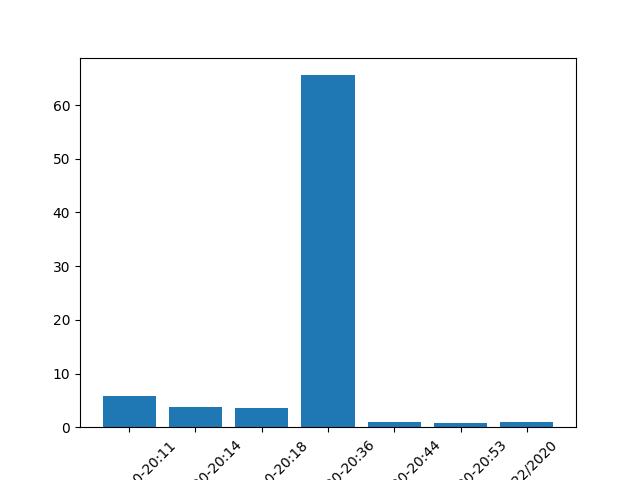
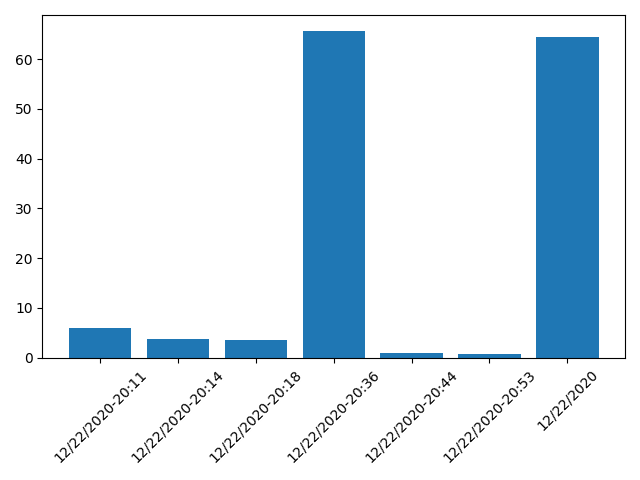
1.1.5 - Benchmarking and Screensize Fix
- Added timing/benchmarking calculations
- Fix for screen sizes set by selenium, hopefully to standardize width

diff --git a/Report.html b/Report.html
@@ -208,7 +208,7 @@
 
             
     <div class="clearfix snippet-container">
-                <div class="clearfix" style="margin-top25px;"><h2>LandmarkTest, https://www.landmarkhealth.org/</h2><br><p>12/22/2020 - 21:05</p></div>
+                <div class="clearfix" style="margin-top25px;"><h2>LandmarkTest, https://www.landmarkhealth.org/</h2><br><p>12/22/2020 - 21:35</p></div>
 
                     <div><img src="results/LandmarkTest/diffplot.png"></div>
 
@@ -216,15 +216,15 @@
 
                         <h3>Current Site</h3>
 
-                        <a href="results/LandmarkTest/LandmarkTest-12222020-2105.jpg"><img class="imagediff" src="results/LandmarkTest/LandmarkTest-12222020-2105.jpg"></a>
+                        <a href="results/LandmarkTest/LandmarkTest-12222020-2135.jpg"><img class="imagediff" src="results/LandmarkTest/LandmarkTest-12222020-2135.jpg"></a>
 
                     </div>    
 
                     <div class="image-container">
 
-                        <h3>Comparative Differences (1.04%)</h3>
+                        <h3>Comparative Differences (35.23%)</h3>
 
-                        <a href="results/LandmarkTest/differences-12222020-2105.jpg"><img class="imagediff" src="results/LandmarkTest/differences-12222020-2105.jpg"></a>
+                        <a href="results/LandmarkTest/differences-12222020-2135.jpg"><img class="imagediff" src="results/LandmarkTest/differences-12222020-2135.jpg"></a>
 
                     </div>
 
@@ -232,7 +232,7 @@
 
                         <h3>Previous Capture</h3>
 
-                        <a href="results/LandmarkTest/LandmarkTest-12222020-2053.jpg"><img class="imagediff" src="results/LandmarkTest/LandmarkTest-12222020-2053.jpg"></a>
+                        <a href="results/LandmarkTest/LandmarkTest-12222020-2132.jpg"><img class="imagediff" src="results/LandmarkTest/LandmarkTest-12222020-2132.jpg"></a>
 
                     </div>
 
@@ -241,7 +241,7 @@
 
                 
     <div class="clearfix snippet-container">
-                <div class="clearfix" style="margin-top25px;"><h2>Roman, https://www.romandesign.co/</h2><br><p>12/22/2020 - 21:05</p></div>
+                <div class="clearfix" style="margin-top25px;"><h2>Roman, https://www.romandesign.co/</h2><br><p>12/22/2020 - 21:35</p></div>
 
                     <div><img src="results/Roman/diffplot.png"></div>
 
@@ -249,7 +249,7 @@
 
                         <h3>Current Site</h3>
 
-                        <a href="results/Roman/Roman-12222020-2105.jpg"><img class="imagediff" src="results/Roman/Roman-12222020-2105.jpg"></a>
+                        <a href="results/Roman/Roman-12222020-2135.jpg"><img class="imagediff" src="results/Roman/Roman-12222020-2135.jpg"></a>
 
                     </div>    
 
@@ -257,7 +257,7 @@
 
                         <h3>Comparative Differences (0.0%)</h3>
 
-                        <a href="results/Roman/differences-12222020-2105.jpg"><img class="imagediff" src="results/Roman/differences-12222020-2105.jpg"></a>
+                        <a href="results/Roman/differences-12222020-2135.jpg"><img class="imagediff" src="results/Roman/differences-12222020-2135.jpg"></a>
 
                     </div>
 
@@ -265,7 +265,7 @@
 
                         <h3>Previous Capture</h3>
 
-                        <a href="results/Roman/Roman-12222020-2053.jpg"><img class="imagediff" src="results/Roman/Roman-12222020-2053.jpg"></a>
+                        <a href="results/Roman/Roman-12222020-2132.jpg"><img class="imagediff" src="results/Roman/Roman-12222020-2132.jpg"></a>
 
                     </div>
 

diff --git a/results/LandmarkTest-snippets.html b/results/LandmarkTest-snippets.html
@@ -1,5 +1,5 @@
     <div class="clearfix snippet-container">
-                <div class="clearfix" style="margin-top25px;"><h2>LandmarkTest, https://www.landmarkhealth.org/</h2><br><p>12/22/2020 - 21:05</p></div>
+                <div class="clearfix" style="margin-top25px;"><h2>LandmarkTest, https://www.landmarkhealth.org/</h2><br><p>12/22/2020 - 21:35</p></div>
 
                     <div><img src="results/LandmarkTest/diffplot.png"></div>
 
@@ -7,15 +7,15 @@
 
                         <h3>Current Site</h3>
 
-                        <a href="results/LandmarkTest/LandmarkTest-12222020-2105.jpg"><img class="imagediff" src="results/LandmarkTest/LandmarkTest-12222020-2105.jpg"></a>
+                        <a href="results/LandmarkTest/LandmarkTest-12222020-2135.jpg"><img class="imagediff" src="results/LandmarkTest/LandmarkTest-12222020-2135.jpg"></a>
 
                     </div>    
 
                     <div class="image-container">
 
-                        <h3>Comparative Differences (1.04%)</h3>
+                        <h3>Comparative Differences (35.23%)</h3>
 
-                        <a href="results/LandmarkTest/differences-12222020-2105.jpg"><img class="imagediff" src="results/LandmarkTest/differences-12222020-2105.jpg"></a>
+                        <a href="results/LandmarkTest/differences-12222020-2135.jpg"><img class="imagediff" src="results/LandmarkTest/differences-12222020-2135.jpg"></a>
 
                     </div>
 
@@ -23,7 +23,7 @@
 
                         <h3>Previous Capture</h3>
 
-                        <a href="results/LandmarkTest/LandmarkTest-12222020-2053.jpg"><img class="imagediff" src="results/LandmarkTest/LandmarkTest-12222020-2053.jpg"></a>
+                        <a href="results/LandmarkTest/LandmarkTest-12222020-2132.jpg"><img class="imagediff" src="results/LandmarkTest/LandmarkTest-12222020-2132.jpg"></a>
 
                     </div>
 

diff --git a/results/Roman-snippets.html b/results/Roman-snippets.html
@@ -1,5 +1,5 @@
     <div class="clearfix snippet-container">
-                <div class="clearfix" style="margin-top25px;"><h2>Roman, https://www.romandesign.co/</h2><br><p>12/22/2020 - 21:05</p></div>
+                <div class="clearfix" style="margin-top25px;"><h2>Roman, https://www.romandesign.co/</h2><br><p>12/22/2020 - 21:35</p></div>
 
                     <div><img src="results/Roman/diffplot.png"></div>
 
@@ -7,7 +7,7 @@
 
                         <h3>Current Site</h3>
 
-                        <a href="results/Roman/Roman-12222020-2105.jpg"><img class="imagediff" src="results/Roman/Roman-12222020-2105.jpg"></a>
+                        <a href="results/Roman/Roman-12222020-2135.jpg"><img class="imagediff" src="results/Roman/Roman-12222020-2135.jpg"></a>
 
                     </div>    
 
@@ -15,7 +15,7 @@
 
                         <h3>Comparative Differences (0.0%)</h3>
 
-                        <a href="results/Roman/differences-12222020-2105.jpg"><img class="imagediff" src="results/Roman/differences-12222020-2105.jpg"></a>
+                        <a href="results/Roman/differences-12222020-2135.jpg"><img class="imagediff" src="results/Roman/differences-12222020-2135.jpg"></a>
 
                     </div>
 
@@ -23,7 +23,7 @@
 
                         <h3>Previous Capture</h3>
 
-                        <a href="results/Roman/Roman-12222020-2053.jpg"><img class="imagediff" src="results/Roman/Roman-12222020-2053.jpg"></a>
+                        <a href="results/Roman/Roman-12222020-2132.jpg"><img class="imagediff" src="results/Roman/Roman-12222020-2132.jpg"></a>
 
                     </div>
 

diff --git a/crawwwly.py b/crawwwly.py
@@ -5,6 +5,7 @@ import os
 from os import listdir
 import fnmatch
 import sys
+import datetime
 from datetime import datetime
 import PIL
 from PIL import Image
@@ -17,6 +18,11 @@ import requests
 from requests.exceptions import ConnectionError
 from pathlib import Path
 import matplotlib.pyplot as plt
+
+################################################
+# SET TIME FOR BENCHMARKING
+################################################
+benchmarkStart = datetime.now()
 
 
 ###################################################
@@ -274,7 +280,8 @@ with open('domains.csv') as domainCSV:
 
             diffplot = plt.bar(x=dataframeDiff['timestamp'], height=dataframeDiff['difference'])
 
-            plt.xticks(rotation=45)
+            plt.xticks(rotation=45) # Rotates the angle of the x-axis labels
+            plt.tight_layout() # Ensures the labels don't fall off the page
 
             plt.savefig(path + '/' + "diffplot.png")
 
@@ -352,6 +359,19 @@ print ('\x1b[6;30;42m' + 'Report completed' + '\x1b[0m' + '\n') # Adding some co
 # Open the file to view the report.
 webbrowser.open('file://' + os.path.realpath("Report.html"))
 
+
+
+################################################
+# FINALIZE BENCHMARK
+################################################
+
+benchmarkFinish = datetime.now()
+
+benchmarkDiff = benchmarkFinish - benchmarkStart
+
+benchmarkDiffstr = str(benchmarkDiff)
+
+print('Benchmarking the time to finish executing: ' + benchmarkDiffstr)
 
 
 

diff --git a/crawwwly-selenium.py b/crawwwly-selenium.py
@@ -13,14 +13,15 @@ import time
 # This function maximizes screen size for better screenshot results
 def save_screenshot(driver, path):
     original_size = driver.get_window_size()
-    required_width = driver.execute_script('return document.body.parentNode.scrollWidth')
+    required_width = 1440 #driver.execute_script('return document.body.parentNode.scrollWidth')
     required_height = driver.execute_script('return document.body.parentNode.scrollHeight')
     driver.set_window_size(required_width, required_height)
     try:
         driver.find_element_by_tag_name('body').screenshot(path)  # Avoids scrollbar
     except Exception as e:
         print(e)
-    driver.set_window_size(original_size['width'], original_size['height'])
+    driver.set_window_size(1440, original_size['height']) 
+    #driver.set_window_size(original_size['width'], original_size['height']) 
 
 parser = argparse.ArgumentParser()
 parser.add_argument("--url", required=True)  # usage: usage: python3 crawly-selenium.py --url https://www.google.com/ --output images/google.png

diff --git a/Development Files/benchmarking.py b/Development Files/benchmarking.py
@@ -1,0 +1,18 @@
+#!/usr/bin/python3
+
+import time
+import datetime
+from datetime import datetime
+
+
+benchmarkStart = datetime.now()
+
+time.sleep(5)
+
+benchmarkFinish = datetime.now()
+
+benchmarkDiff = benchmarkFinish - benchmarkStart
+
+benchmarkDiffstr = str(benchmarkDiff)
+
+print('Benchmarking the time to finish executing: ' + benchmarkDiffstr)

diff --git a/devlog.md b/devlog.md
@@ -9,13 +9,13 @@ URL Validation:
 * For validation fails, add a section in the reports for failed URLs
 
 Error Handling:
-* Address error handling --> Selenium "page didn't load" issue
+* DONE (I Think?) ~Address error handling --> Selenium "page didn't load" issue~
 * Address keeping all browsers the same size for accuracy
 * Add loop-skipping "Pass" exception (https://stackoverflow.com/questions/38707513/ignoring-an-error-message-to-continue-with-the-loop-in-python)
 
 Selenium:
-* Keep browser consistently same size
 * DONE: ~Add wait time to ensure pages load correctly~ (However, this will cause performance issues moving forward and we need to fix in some way or another)
+* Keep browser consistently same size
 * Fixed headers sometimes load in the middle of a page
 
 Refactoring:
